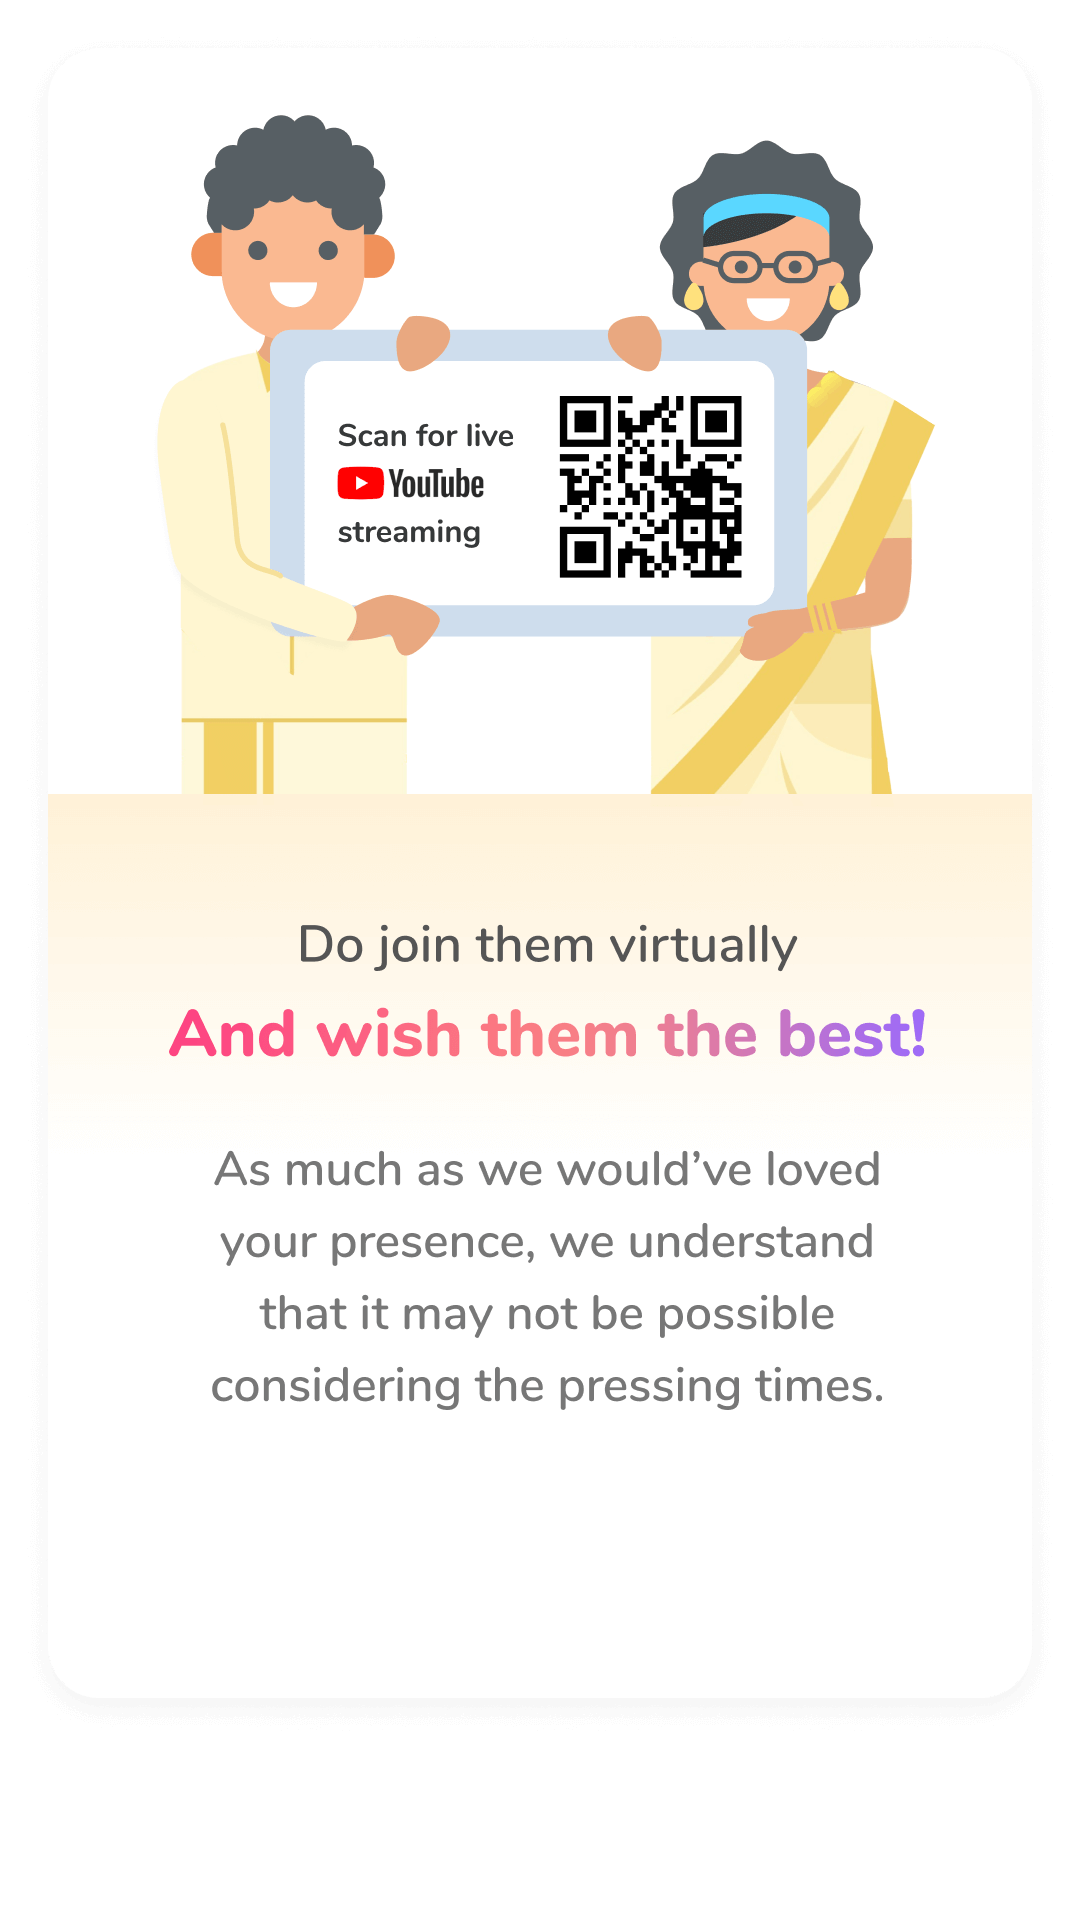
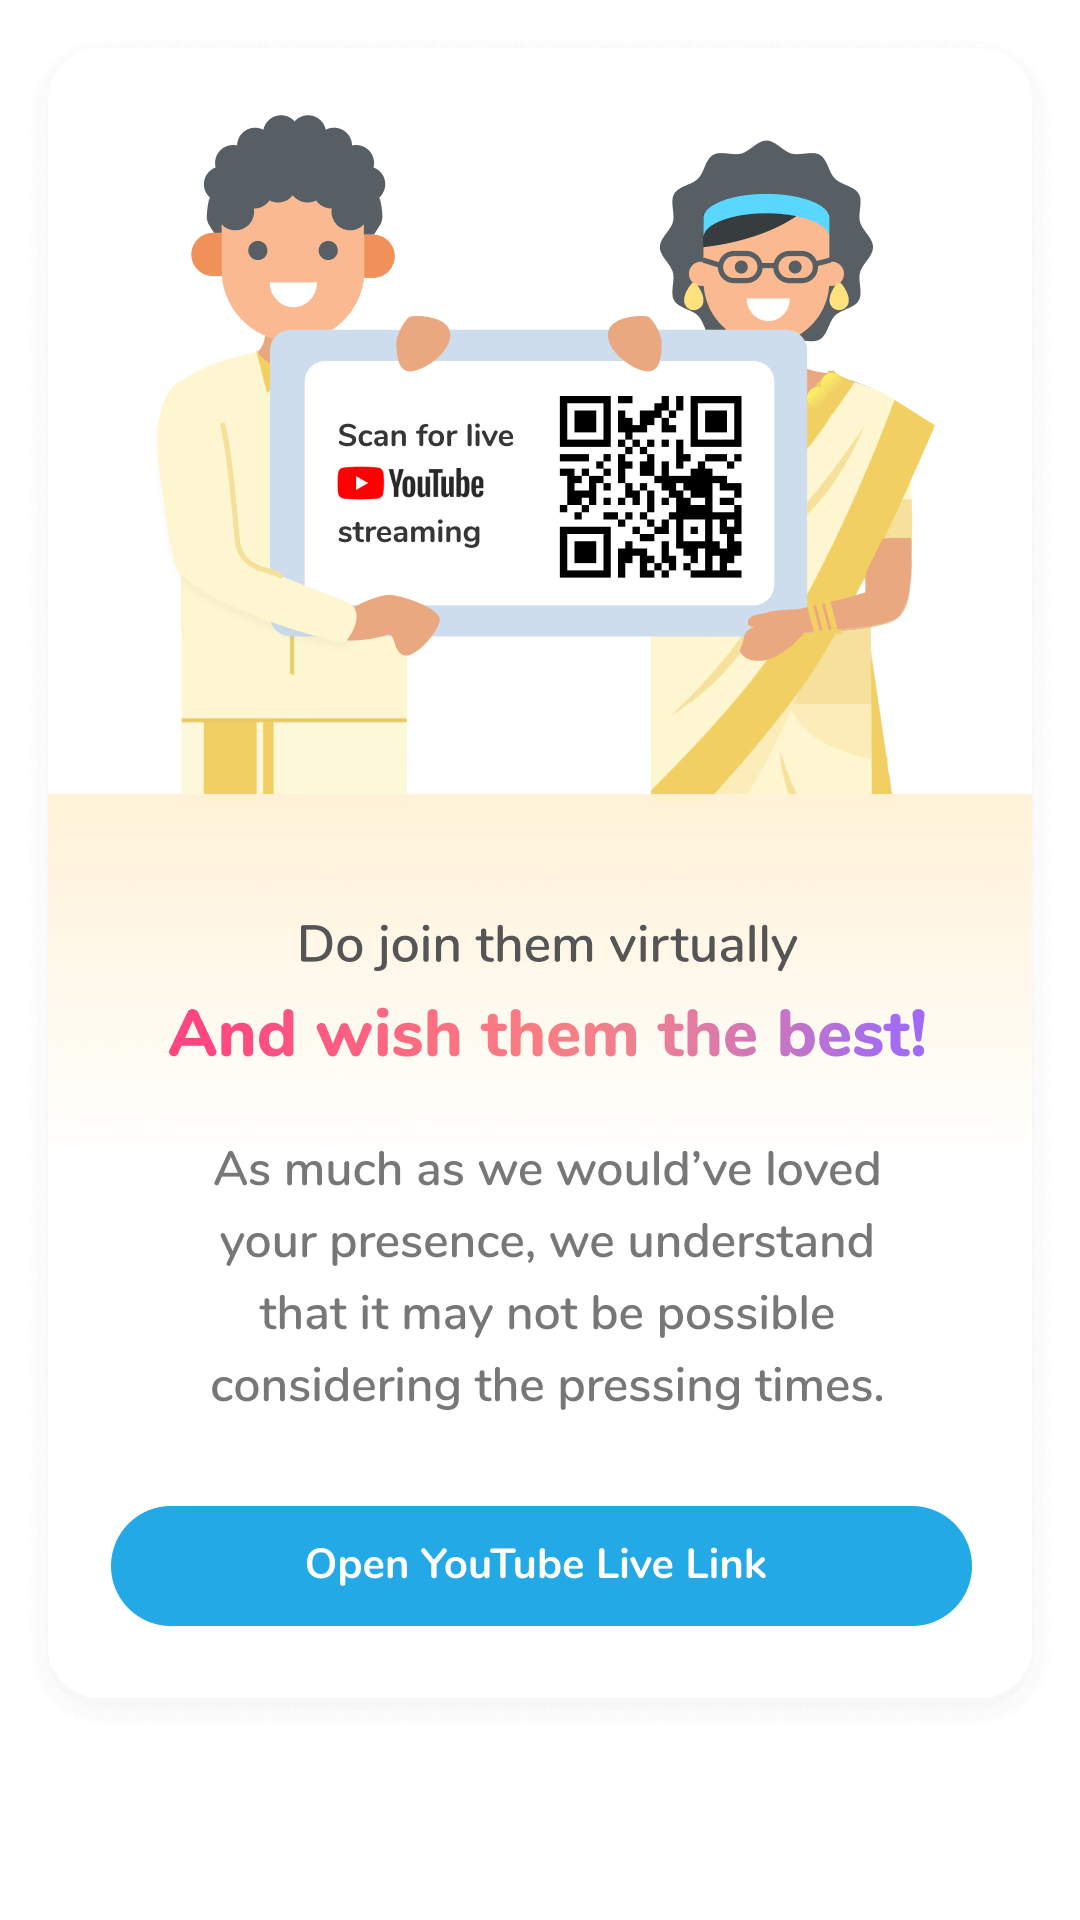
Updated YT link

Changed region(s): [[0.0917, 0.7812, 0.9167, 0.8438]]

diff --git a/index.html b/index.html
@@ -68,7 +68,7 @@
         	<img src="img/mob/Screen11.png" class="slide-img">
         </section>
         <section>
-        	<img src="img/mob/Screen12.png" class="slide-img">
+        	<a href="https://youtu.be/rC1V_pKeAy0" target="_blank"><img src="img/mob/Screen12.png" class="slide-img"></a>
         </section>
         <section>
         	<img src="img/mob/Screen13.png" class="slide-img">
